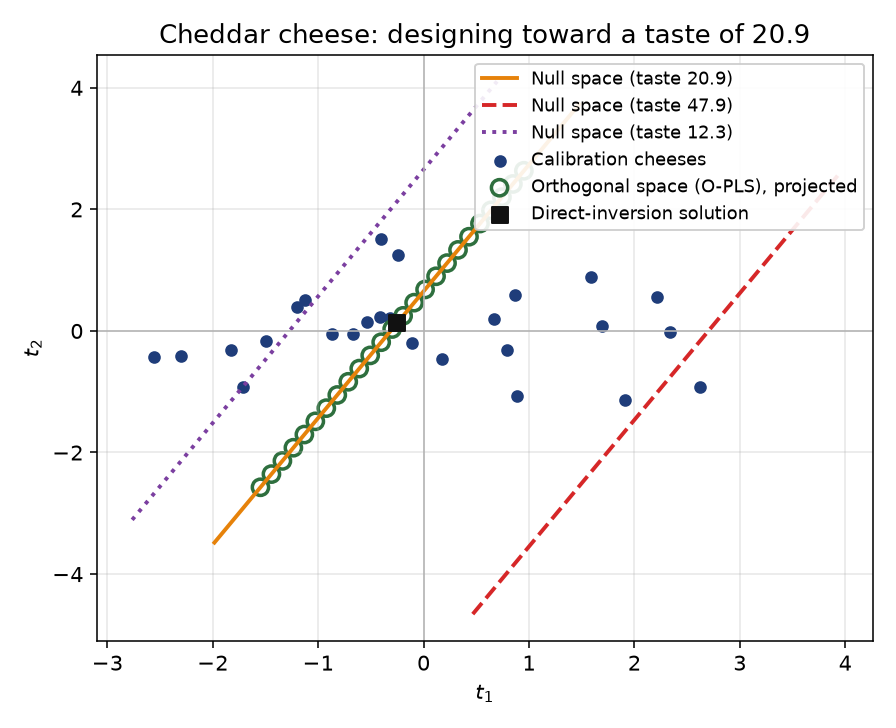
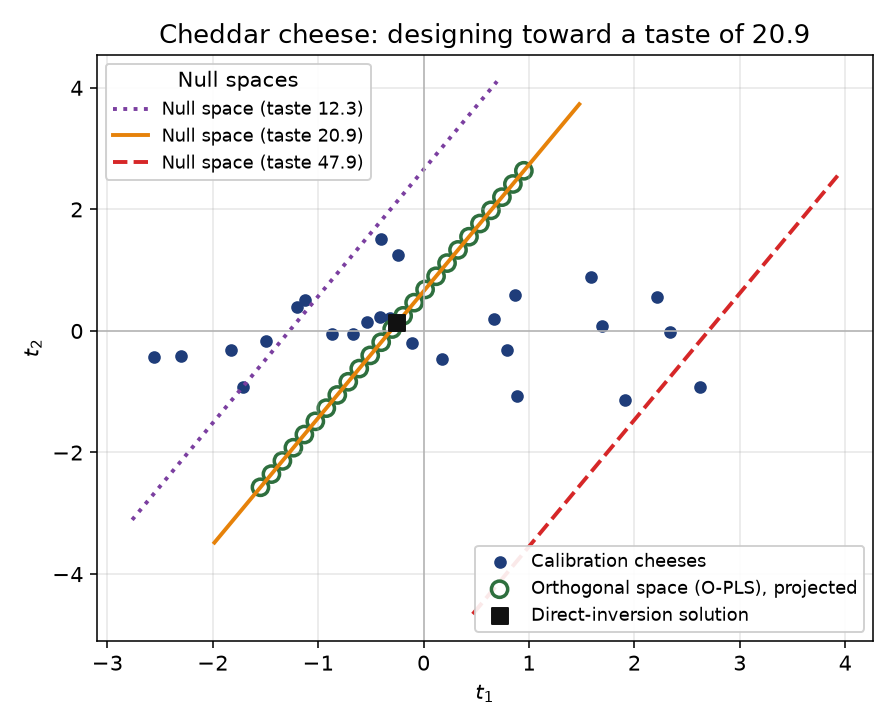
Split into two legends: null-space lines top left, markers bottom right
The lines legend lists the null spaces from lowest to highest taste
(12.3, 20.9, 47.9); the markers legend holds the calibration cheeses, the
O-PLS orthogonal space, and the direct-inversion solution.

Claude-Session: https://claude.ai/code/session_01DsTypY4FcRbrXRxorb9raz

diff --git a/pls/pls-model-inversion-null-space.py b/pls/pls-model-inversion-null-space.py
@@ -104,25 +104,17 @@ def build_figure(out_dir: Path) -> None:
     scores = pls.scores_.to_numpy()
 
     fig, ax = plt.subplots(figsize=(6.4, 5.2))
-    ax.scatter(scores[:, 0], scores[:, 1], color=DARK_BLUE, s=30, label="Calibration cheeses")
-    ax.plot(ns_line[:, 0], ns_line[:, 1], color=ORANGE, lw=2, label=f"Null space (taste {TARGET_TASTE})")
-    ax.plot(
-        ns_line2[:, 0],
-        ns_line2[:, 1],
-        color=RED,
-        lw=2,
-        linestyle="--",
-        label=f"Null space (taste {SECOND_TASTE})",
+    cal = ax.scatter(scores[:, 0], scores[:, 1], color=DARK_BLUE, s=30, label="Calibration cheeses")
+    (line3,) = ax.plot(
+        ns_line3[:, 0], ns_line3[:, 1], color=PURPLE, lw=2, linestyle=":", label=f"Null space (taste {THIRD_TASTE})"
     )
-    ax.plot(
-        ns_line3[:, 0],
-        ns_line3[:, 1],
-        color=PURPLE,
-        lw=2,
-        linestyle=":",
-        label=f"Null space (taste {THIRD_TASTE})",
+    (line1,) = ax.plot(
+        ns_line[:, 0], ns_line[:, 1], color=ORANGE, lw=2, label=f"Null space (taste {TARGET_TASTE})"
     )
-    ax.scatter(
+    (line2,) = ax.plot(
+        ns_line2[:, 0], ns_line2[:, 1], color=RED, lw=2, linestyle="--", label=f"Null space (taste {SECOND_TASTE})"
+    )
+    os_circles = ax.scatter(
         os_points[:, 0],
         os_points[:, 1],
         facecolors="none",
@@ -131,7 +123,7 @@ def build_figure(out_dir: Path) -> None:
         linewidths=1.8,
         label="Orthogonal space (O-PLS), projected",
     )
-    ax.scatter(
+    di = ax.scatter(
         tau[0], tau[1], color=BLACK, marker="s", s=70, zorder=5, label="Direct-inversion solution"
     )
     ax.axhline(0, color="0.7", lw=0.8)
@@ -139,17 +131,14 @@ def build_figure(out_dir: Path) -> None:
     ax.set_xlabel("$t_1$")
     ax.set_ylabel("$t_2$")
     ax.set_title(f"Cheddar cheese: designing toward a taste of {TARGET_TASTE}")
-    # Reorder the legend so the lines (null spaces) come first, then the markers
-    # (calibration cheeses, orthogonal space, direct-inversion solution).
-    handles, labels = ax.get_legend_handles_labels()
-    order = [1, 2, 3, 0, 4, 5]
-    ax.legend(
-        [handles[i] for i in order],
-        [labels[i] for i in order],
-        loc="upper right",
-        framealpha=0.9,
-        fontsize=9,
+
+    # Two legends: the null-space lines (lowest to highest taste) at top left, and
+    # the markers at bottom right.
+    lines_legend = ax.legend(
+        handles=[line3, line1, line2], loc="upper left", framealpha=0.9, fontsize=9, title="Null spaces"
     )
+    ax.add_artist(lines_legend)
+    ax.legend(handles=[cal, os_circles, di], loc="lower right", framealpha=0.9, fontsize=9)
     fig.tight_layout()
     fig.savefig(out_dir / "pls-model-inversion-null-space.png")
     plt.close(fig)
